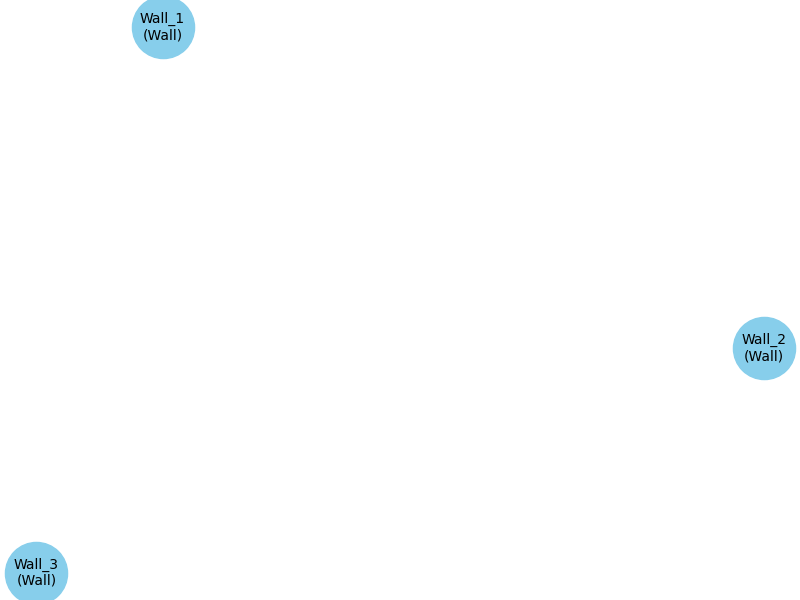
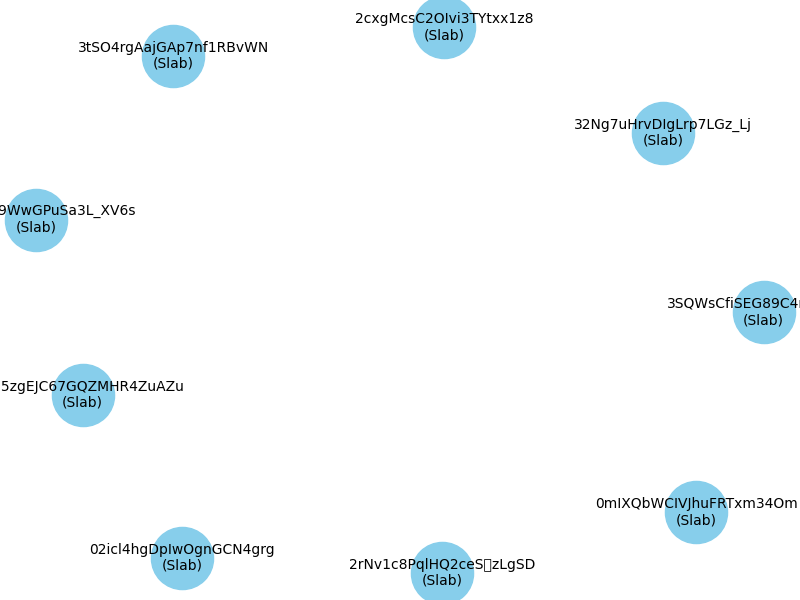
feat: graph builder function is fixed

diff --git a/src/graph_builder.py b/src/graph_builder.py
@@ -3,52 +3,37 @@ import json
 
 def build_context_graph(bim_data):
     G = nx.Graph()
+    print(" Building context graph...")
 
     for category, elements in bim_data.items():
+        print(f"\n Adding nodes for category: '{category}'")
         for element in elements:
             node_id = element["global_id"]
             node_attrs = {
+                "name": element.get("name"),
                 "id": node_id,
                 "type": category,
-                "name": element.get("name"),
                 "bounding_box": element.get("BoundingBox", {}),
                 "properties": element.get("props", {})
             }
             G.add_node(node_id, **node_attrs)
+            print(f"  🟦 Added node: {node_id} ({element.get('name')})")
 
+    print("\n Adding edges...")
     for category, elements in bim_data.items():
         for element in elements:
             source_id = element["global_id"]
-
             for rel_type in ["adjacent_to", "contained_in"]:
                 targets = element.get(rel_type, [])
                 if not isinstance(targets, list):
-                    continue 
+                    continue
 
                 for target_id in targets:
                     if G.has_node(target_id):
                         G.add_edge(source_id, target_id, relation=rel_type)
+                        print(f"Edge: {source_id} --[{rel_type}]--> {target_id}")
                     else:
-                        print(f"⚠ Warning: '{source_id}' references unknown target '{target_id}' via '{rel_type}'")
+                        print(f"Warning: {source_id} references unknown {target_id} via '{rel_type}'")
 
+    print("\nContext graph built successfully.")
     return G
-
-
-if __name__ == "__main__":
-    import os
-
-    bim_data_path = "sample_data.json"
-    print("Reading from:", os.path.abspath(bim_data_path))
-
-    with open(bim_data_path, 'r', encoding='utf-8') as file:
-        data = json.load(file)
-        print("✅ Data loaded successfully!")
-
-    G = build_context_graph(data)
-
-    print(f"📊 Graph Stats — Nodes: {G.number_of_nodes()}, Edges: {G.number_of_edges()}")
-    print("🔹 Sample Node:", list(G.nodes(data=True))[0])
-    if G.edges:
-        print("🔸 Sample Edge:", list(G.edges(data=True))[0])
-    else:
-        print("No edges found.")

diff --git a/src/agent.py b/src/agent.py
@@ -29,22 +29,24 @@ def graph_assistant(prompt, bim_data=""):
     initial_state = {
         "query": prompt,
         "graph": graph,
-        "schema" : {
-        "node_types": ["Wall", "Room", "Slab","Door"],
-        "edge_types": ["adjacent_to", "contained_in"],
-        "node_attributes": {
-            "type": "string",
-            "name": "string",
-            "BoundingBox": {
-                "xmin": "float",
-                "ymin": "float",
-                "zmin": "float",
-                "xmax": "float",
-                "ymax": "float",
-                "zmax": "float"
-            },
-            "props": {"load_bearing": "boolean"  }
-        }
+        "schema": {
+            "node_types": ["Wall", "Room", "Slab", "Door"],
+            "edge_types": ["adjacent_to", "contained_in"],
+            "node_attributes": {
+                "type": "string",     
+                "name": "string",
+                "bounding_box": {
+                    "xmin": "float",
+                    "ymin": "float",
+                    "zmin": "float",
+                    "xmax": "float",
+                    "ymax": "float",
+                    "zmax": "float"
+                },
+                "properties": {
+                    "load_bearing": "boolean"
+                }
+            }
         },
         "attempt": 0
     }
@@ -111,7 +113,7 @@ if __name__ == "__main__":
     #     data = json.load(file)
     #     print("Data loaded succesffuly!")
 
-    prompt = "Show me all walls"
+    prompt = "Show me all walls that are load bearing"
     # show me all walls that has dry wall material
     print("\n Starting agentic workflow...")
     final_state, summary = graph_assistant(prompt)

diff --git a/src/agents/visualize_agent.py b/src/agents/visualize_agent.py
@@ -18,7 +18,11 @@ def visualize_agent(state):
             H.add_edge(u, v, **attrs)
 
     pos = nx.spring_layout(H, seed=42)  
-    node_labels = {n: f"{n}\n({H.nodes[n].get('type', '')})" for n in H.nodes()}
+    def clean_label(node_id):
+        return node_id.replace("$", "﹩")  
+
+    node_labels = {
+        n: f"{clean_label(n)}\n({H.nodes[n].get('type', '')})" for n in H.nodes()}
     edge_labels = {(u, v): d.get("relation", "") for u, v, d in H.edges(data=True)}
 
     plt.figure(figsize=(8, 6))

diff --git a/src/main.py b/src/main.py
@@ -5,4 +5,5 @@ if __name__ == "__main__":
     bim_data = parse_ifc_to_json("data/sample.ifc")
     prompt = input("Enter your graph query: ")
     graph, summary = graph_assistant(prompt, bim_data)
-    print(summary)
+    print("\nSummary: \n", summary) # show me all walls
+    # 2D Visualization /output_graph.png
